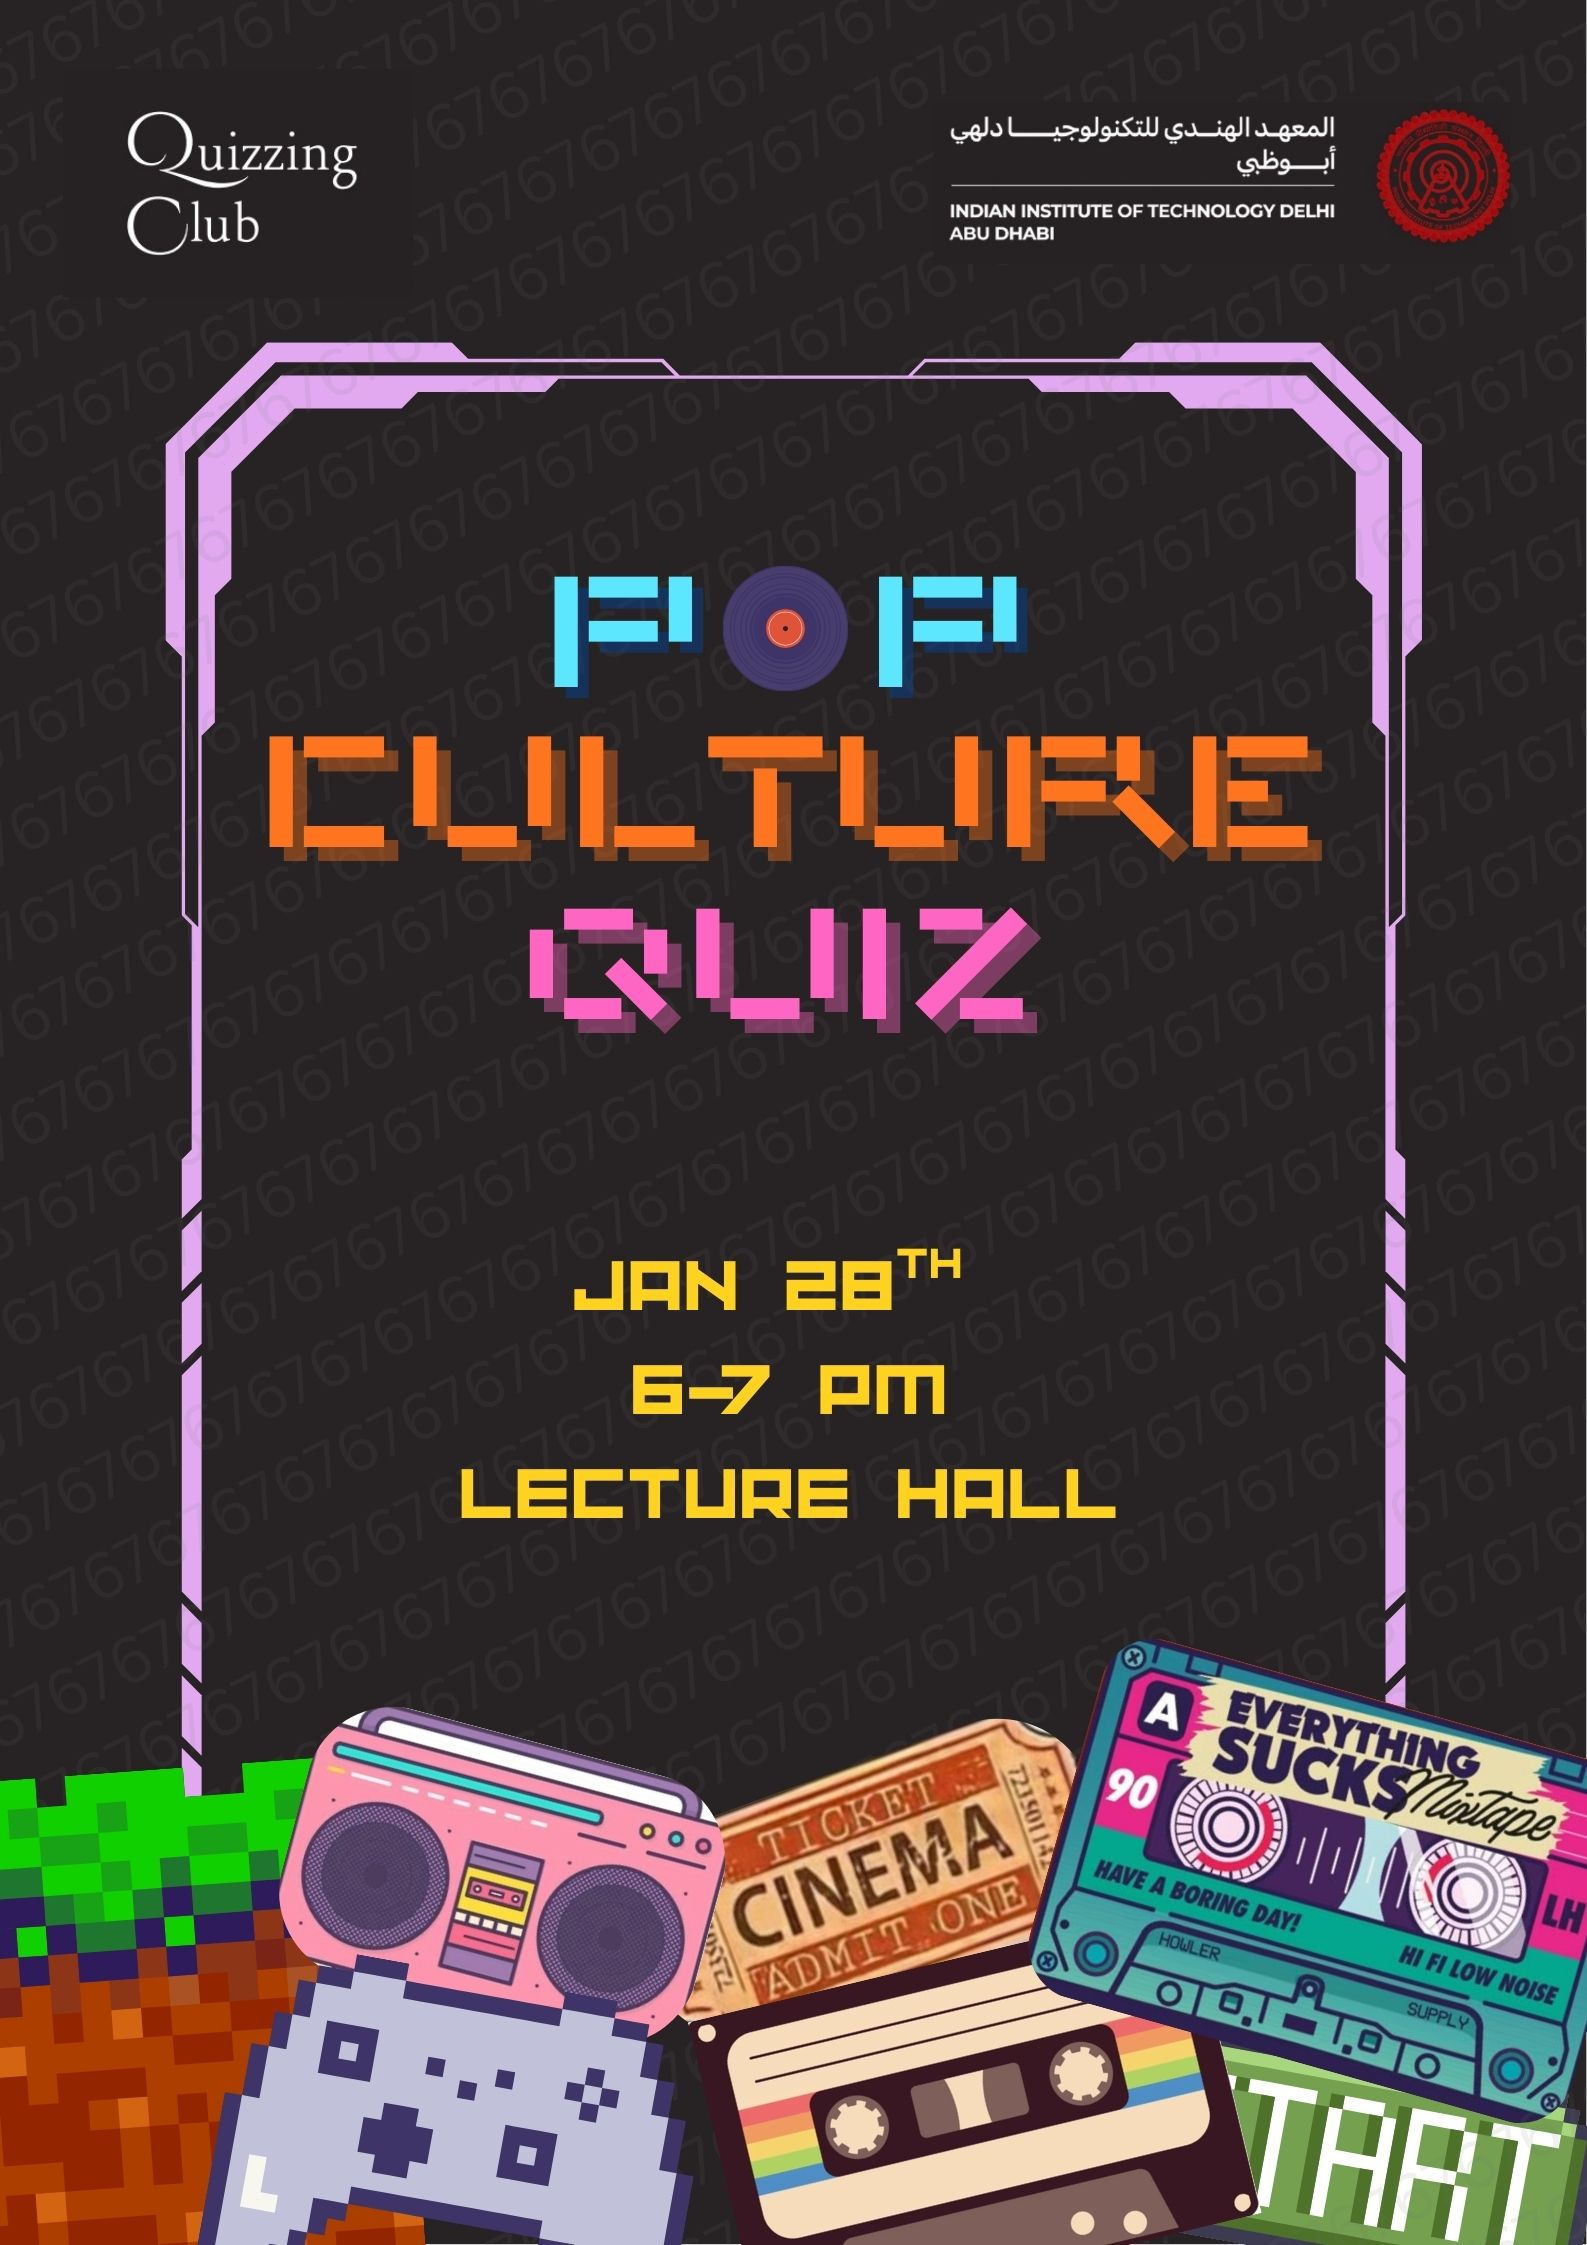
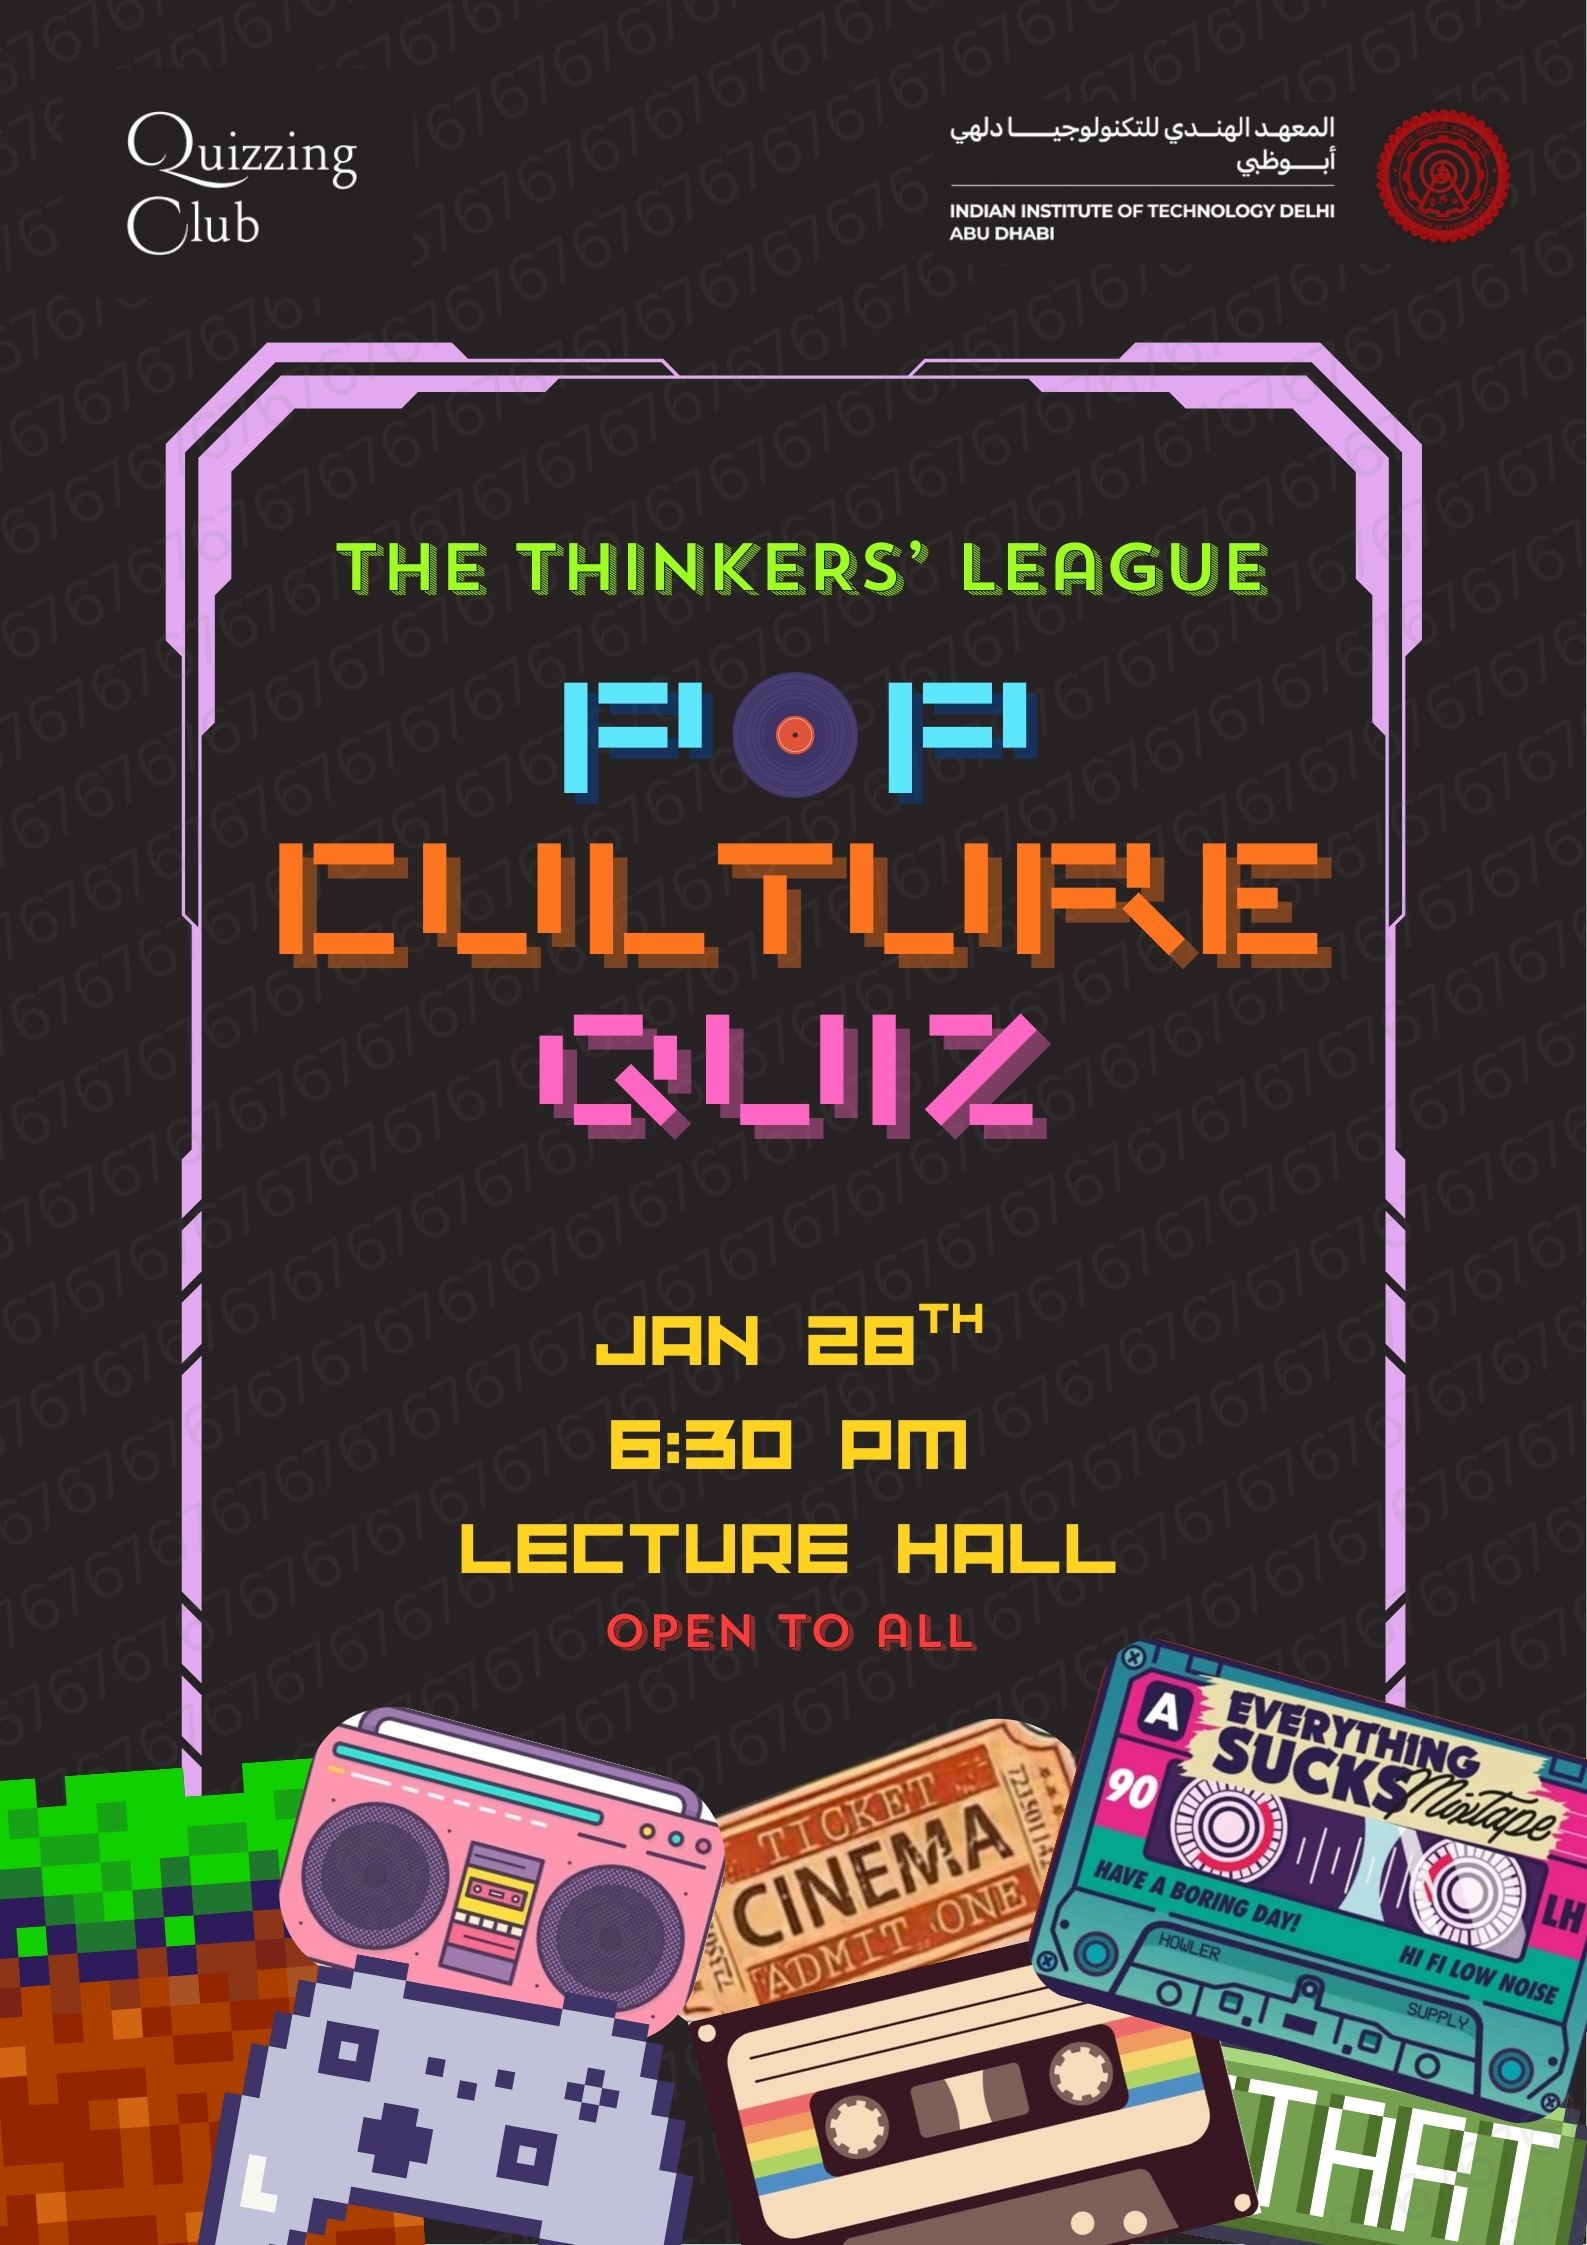
Gave a name

Changed region(s): [[0.1544, 0.2183, 0.8336, 0.7483]]

diff --git a/index.html b/index.html
@@ -36,15 +36,15 @@
         <div class="header">
             <img src="./Screenshot_2025-12-30_at_6.59.45_PM-removebg-preview.png" alt="IITD Logo">
             <div class="header-text">
-                <h1>Announcing the Quizzing League</h1>
+                <h1>The Thinkers' League</h1>
                 <p>Team-Based Competition | Individual Scores</p>
             </div>
         </div>
 
         <div class="content">
             <div class="info-box">
-                <h3>🏆 What is the Quizzing League?</h3>
-                <p>The Quizzing League is a season-long competition consisting of multiple quizzes across diverse domains.
+                <h3>🏆 What is The Thinkers' League?</h3>
+                <p>The Thinkers' League is a season-long competition consisting of multiple quizzes across diverse domains.
                     While quizzes are played in teams, points are tracked individually, and consistent participation is
                     rewarded.</p>
 
@@ -69,7 +69,7 @@
                 </div>
 
                 <p style="margin-top: 20px;"><strong>📖 Learn More:</strong> For detailed description, check the <a
-                        href="https://drive.google.com/file/d/1BTEmWyeBTr-43DIIQueIvlYcBxC5Y0b7/view?usp=sharing"
+                        href="https://drive.google.com/file/d/1_kJNreRxpQKODIQsUFlMSkd34ccjfCMr/view?usp=sharing"
                         target="_blank">Rulebook →</a></p>
             </div>
 
